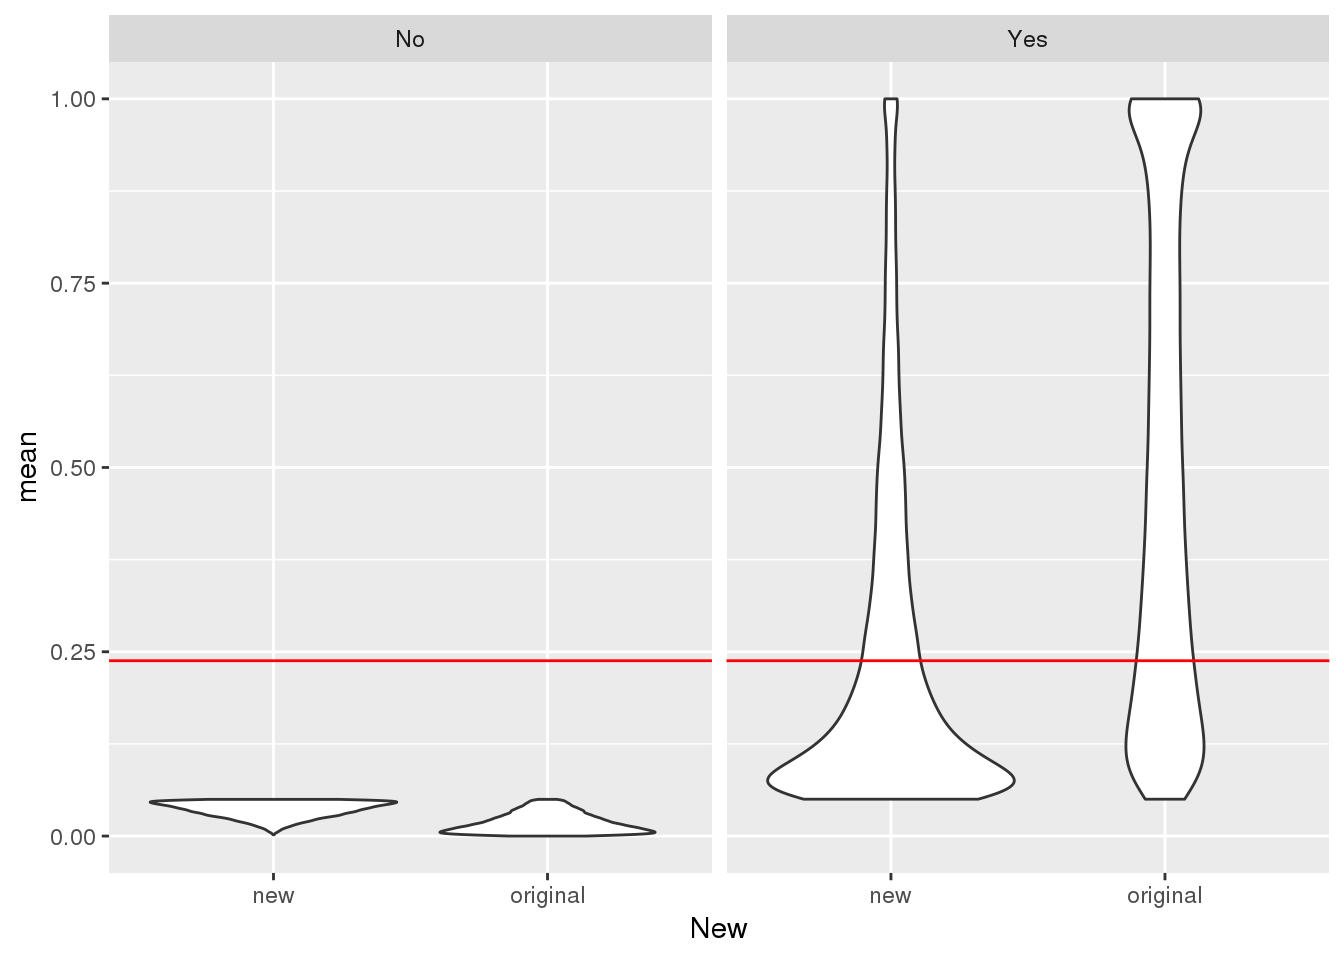
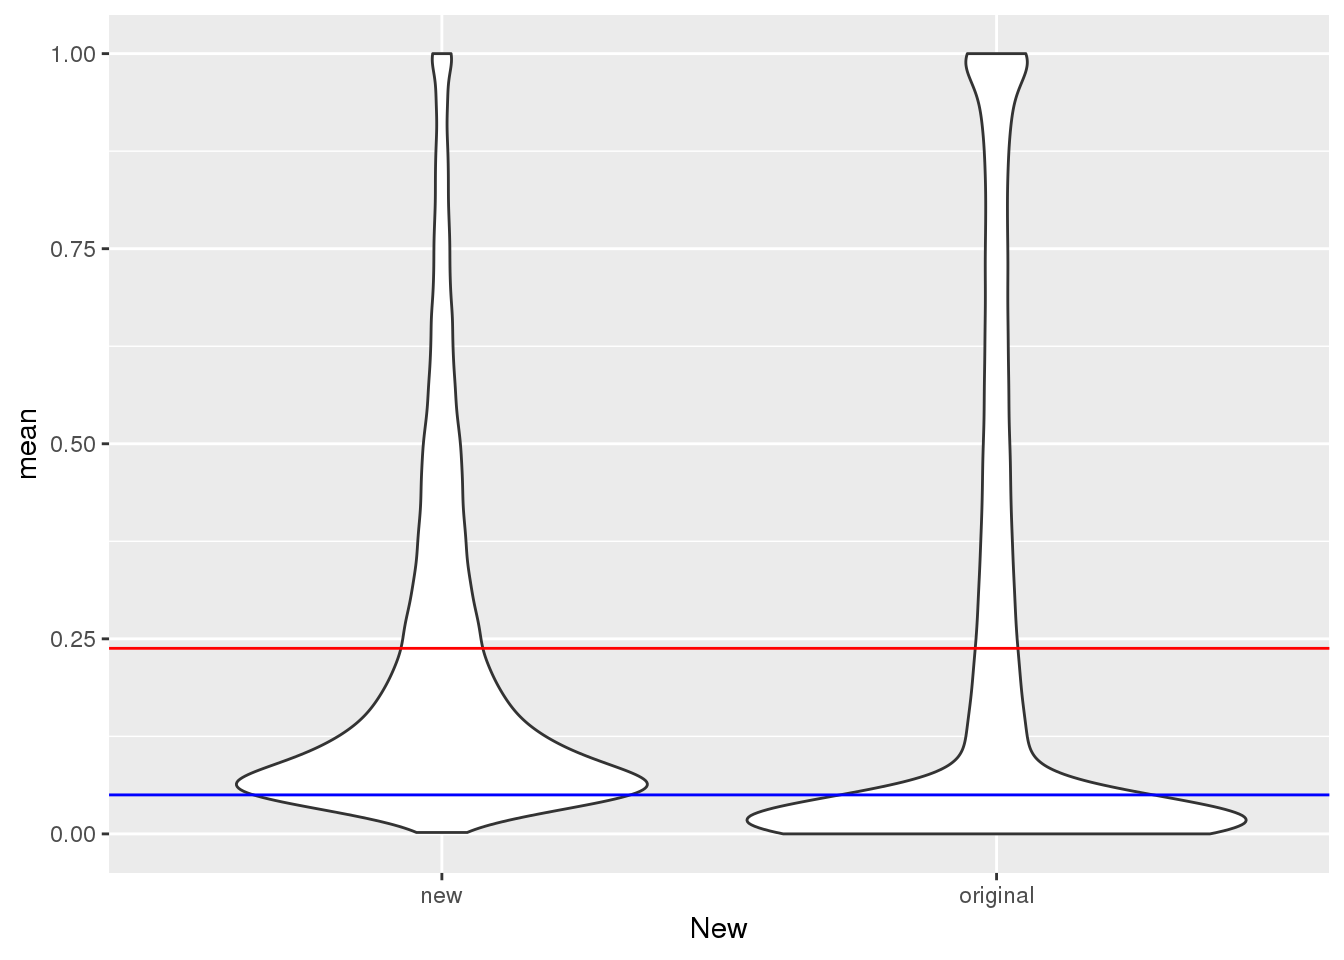
Build site.

diff --git a/docs/NewvOldPeakQC.html b/docs/NewvOldPeakQC.html
@@ -422,10 +422,10 @@ This reproducible <a href="http://rmarkdown.rstudio.com">R Markdown</a> analysis
 <div class="panel panel-default">
 <div class="panel-heading">
 <p class="panel-title">
-<a data-toggle="collapse" data-parent="#workflowr-checks" href="#strongRepositoryversionstrongahrefhttpsgithubcombrimittlemanapaQTLtreef58797082799d020c419ca0d45c1dc1f5b91d71ftargetblankf587970a"> <span class="glyphicon glyphicon-ok text-success" aria-hidden="true"></span> <strong>Repository version:</strong> <a href="https://github.com/brimittleman/apaQTL/tree/f58797082799d020c419ca0d45c1dc1f5b91d71f" target="_blank">f587970</a> </a>
+<a data-toggle="collapse" data-parent="#workflowr-checks" href="#strongRepositoryversionstrongahrefhttpsgithubcombrimittlemanapaQTLtreef4f5b21553b16c8948f83b538061dab32ad4d09etargetblankf4f5b21a"> <span class="glyphicon glyphicon-ok text-success" aria-hidden="true"></span> <strong>Repository version:</strong> <a href="https://github.com/brimittleman/apaQTL/tree/f4f5b21553b16c8948f83b538061dab32ad4d09e" target="_blank">f4f5b21</a> </a>
 </p>
 </div>
[2 lines of base64/hex data omitted]
 <div class="panel-body">
 <p>
 Great! You are using Git for version control. Tracking code development and connecting the code version to the results is critical for reproducibility. The version displayed above was the version of the Git repository at the time these results were generated. <br><br> Note that you need to be careful to ensure that all relevant files for the analysis have been committed to Git prior to generating the results (you can use <code>wflow_publish</code> or <code>wflow_git_commit</code>). workflowr only checks the R Markdown file, but you know if there are other scripts or data files that it depends on. Below is the status of the Git repository when the results were generated:
@@ -605,6 +605,40 @@ Message
 </tr>
 </thead>
 <tbody>
+<tr>
+<td>
+Rmd
+</td>
+<td>
+<a href="https://github.com/brimittleman/apaQTL/blob/f4f5b21553b16c8948f83b538061dab32ad4d09e/analysis/NewvOldPeakQC.Rmd" target="_blank">f4f5b21</a>
+</td>
+<td>
+brimittleman
+</td>
+<td>
+2019-05-01
+</td>
+<td>
+add number of peak per gene analysis
+</td>
+</tr>
+<tr>
+<td>
+html
+</td>
+<td>
+<a href="https://rawcdn.githack.com/brimittleman/apaQTL/03ea0f7f10cb119174b2b47cfbe388beb5c34178/docs/NewvOldPeakQC.html" target="_blank">03ea0f7</a>
+</td>
+<td>
+brimittleman
+</td>
+<td>
+2019-05-01
+</td>
+<td>
+Build site.
+</td>
+</tr>
 <tr>
 <td>
 Rmd
@@ -809,7 +843,7 @@ TotalPeakUSMean=as.data.frame(cbind(totalPeakUs[,1:7],mean=totalPeakUs_CountNum_
 mean(TotalPeakUSMean$mean)</code></pre>
 <pre><code>[1] 0.2378282</code></pre>
 <p>Plot:</p>
-<pre class="r"><code>ggplot(TotalPeakUSMeanClass, aes(y=mean,x=New)) + geom_violin() + geom_hline(yintercept = mean(TotalPeakUSMean$mean), col=&quot;red&quot;) + facet_grid(~Cutoff)</code></pre>
+<pre class="r"><code>ggplot(TotalPeakUSMeanClass, aes(y=mean,x=New)) + geom_violin() + geom_hline(yintercept = mean(TotalPeakUSMean$mean), col=&quot;red&quot;) +  geom_hline(yintercept = .05, col=&quot;Blue&quot;)</code></pre>
 <p><img src="figure/NewvOldPeakQC.Rmd/unnamed-chunk-6-1.png" width="672" style="display: block; margin: auto;" /></p>
 <p>
 <button type="button" class="btn btn-default btn-xs btn-workflowr btn-workflowr-fig" data-toggle="collapse" data-target="#fig-unnamed-chunk-6-1">
@@ -835,6 +869,17 @@ Date
 <tbody>
 <tr>
 <td>
+<a href="https://github.com/brimittleman/apaQTL/blob/03ea0f7f10cb119174b2b47cfbe388beb5c34178/docs/figure/NewvOldPeakQC.Rmd/unnamed-chunk-6-1.png" target="_blank">03ea0f7</a>
+</td>
+<td>
+brimittleman
+</td>
+<td>
+2019-05-01
+</td>
+</tr>
+<tr>
+<td>
 <a href="https://github.com/brimittleman/apaQTL/blob/ac656aad301db960e1e2b218a7235b295395057d/docs/figure/NewvOldPeakQC.Rmd/unnamed-chunk-6-1.png" target="_blank">ac656aa</a>
 </td>
 <td>
@@ -848,7 +893,13 @@ brimittleman
 </table>
 </div>
 </div>
-<p>This shows me the new peaks are not the peaks that barely passed the cuttoff before. These peaks cover the distribution of usage.</p>
+<pre class="r"><code>TotalPeakUSMeanClass_newonly= TotalPeakUSMeanClass %&gt;% filter(New==&quot;new&quot;)
+
+ggplot(TotalPeakUSMeanClass_newonly, aes(y=mean, x=&quot;&quot;)) + geom_violin() + geom_hline(yintercept = mean(TotalPeakUSMean$mean), col=&quot;red&quot;) +  geom_hline(yintercept = .05, col=&quot;Blue&quot;) + labs(x=&quot;&quot;, y=&quot;Mean Usage&quot;, title=&quot;Mean Usage of New PAS&quot;)</code></pre>
+<p><img src="figure/NewvOldPeakQC.Rmd/unnamed-chunk-7-1.png" width="672" style="display: block; margin: auto;" /></p>
+<pre class="r"><code>ggplot(TotalPeakUSMeanClass_newonly, aes(x=mean)) + geom_histogram(bins=50) + geom_vline(xintercept = mean(TotalPeakUSMean$mean), col=&quot;red&quot;)</code></pre>
+<p><img src="figure/NewvOldPeakQC.Rmd/unnamed-chunk-8-1.png" width="672" style="display: block; margin: auto;" /></p>
+<p>This shows me the new peaks are the peaks that barely passed the cuttoff before.</p>
 <p>write out file with information about new and old peaks</p>
 <pre class="r"><code>Peak_newOld=TotalPeakUSMeanClass %&gt;% select(-mean)
 write.table(Peak_newOld, file=&quot;../data/peaks_5perc/NewVOldPeaks.txt&quot;, col.names = T, row.names = F, quote=F)</code></pre>
@@ -960,12 +1011,72 @@ oldtotusage_anno_new=oldtotusage_anno %&gt;% semi_join(TotalPeakUSMeanClass_newo
 
 oldtotusage_anno_new_mean=rowMeans(oldtotusage_anno_new)
 
-hist(oldtotusage_anno_new_mean, main=&quot;Total Usage of new peaks in old data&quot;, xlab=&quot;old usage means&quot;)</code></pre>
-<p><img src="figure/NewvOldPeakQC.Rmd/unnamed-chunk-18-1.png" width="672" style="display: block; margin: auto;" /></p>
+plot(oldtotusage_anno_new_mean, main=&quot;Total Usage of new peaks in old data&quot;, ylab=&quot;old usage means Percent&quot;)</code></pre>
+<p><img src="figure/NewvOldPeakQC.Rmd/unnamed-chunk-20-1.png" width="672" style="display: block; margin: auto;" /></p>
 <pre class="r"><code>length(oldtotusage_anno_new_mean)</code></pre>
 <pre><code>[1] 14642</code></pre>
 <p>This shows me that we called 14 thousand of the new peaks in the old set but they were all super low coverage.</p>
 <p>Where are the new peaks, genes with a lot of peaks? or genes with less peaks</p>
+<pre class="r"><code>newPAS5perc_pergene=newPAS5perc %&gt;% separate(ID, into=c(&quot;peaknum&quot;, &quot;geneID&quot;), sep=&quot;:&quot;) %&gt;% separate(geneID, into=c(&quot;gene&quot;, &quot;loc&quot;),sep=&quot;_&quot;) %&gt;% group_by(gene) %&gt;% summarise(nPeak=n())
+
+ggplot(newPAS5perc_pergene,aes(x=nPeak)) + geom_histogram(bins=100)</code></pre>
+<p><img src="figure/NewvOldPeakQC.Rmd/unnamed-chunk-21-1.png" width="672" style="display: block; margin: auto;" /></p>
+<pre class="r"><code>nrow(newPAS5perc_pergene)</code></pre>
+<pre><code>[1] 15456</code></pre>
+<p>Look at which genes the new peaks are in.</p>
+<pre class="r"><code>uniqnew_genes=uniqnew %&gt;% separate(ID, into=c(&quot;peaknum&quot;, &quot;geneID&quot;), sep=&quot;:&quot;) %&gt;% separate(geneID, into=c(&quot;gene&quot;, &quot;loc&quot;),sep=&quot;_&quot;) %&gt;% group_by(gene) %&gt;% summarise(npeakadded=n())
+
+
+ggplot(uniqnew_genes, aes(x=npeakadded)) + geom_histogram(bins=100) + labs(title=&quot;Number of peaks added per gene\n(added peak in 10827 genes of 15456 genes)&quot;, x=&quot;Number of Peaks&quot;, y=&quot;Number of Genes&quot;)</code></pre>
+<p><img src="figure/NewvOldPeakQC.Rmd/unnamed-chunk-22-1.png" width="672" style="display: block; margin: auto;" /> Look at these genes compared to distribution for number of peaks in all peaks before filter</p>
+<pre class="r"><code>allPAS=read.table(&quot;../data/assignedPeaks/APApeaks.ALLChrom.Filtered.Named.GeneLocAnnoPARSED.SAF&quot;, header = T, stringsAsFactors = F) %&gt;% separate(GeneID, into = c(&quot;peak&quot;, &quot;Chrom&quot;, &quot;Peakstart&quot;, &quot;PeakEnd&quot;, &quot;strand&quot;, &quot;geneid&quot;),sep=&quot;:&quot;) %&gt;% separate(geneid, into=c(&quot;gene&quot;, &quot;loc&quot;), sep=&quot;_&quot;) %&gt;% group_by(gene) %&gt;% summarise(nPeakAll=n()) %&gt;% mutate(AddedPeak=ifelse(gene %in% uniqnew_genes$gene, &quot;yes&quot;, &quot;no&quot;))</code></pre>
+<pre><code>Warning: Expected 2 pieces. Additional pieces discarded in 4 rows [14735,
+14736, 14737, 14738].</code></pre>
+<pre class="r"><code>ggplot(allPAS, aes(x=nPeakAll))+ geom_histogram(bins = 100) + facet_grid(~AddedPeak)</code></pre>
+<p><img src="figure/NewvOldPeakQC.Rmd/unnamed-chunk-23-1.png" width="672" style="display: block; margin: auto;" /></p>
+<p>Mean number of peaks for genes where we added, this could help us understand the distribution shift:</p>
+<pre class="r"><code>allPAS_withnewpas=allPAS %&gt;% filter(AddedPeak==&quot;yes&quot;)
+
+summary(allPAS_withnewpas$nPeakAll)</code></pre>
+<pre><code>   Min. 1st Qu.  Median    Mean 3rd Qu.    Max. 
+  1.000   3.000   6.000   9.725  12.000 201.000 </code></pre>
+<p>Look at n peaks per gene in old data and npeaks per gene in new- join and subtract</p>
+<pre class="r"><code>#newPAS5perc_pergene
+
+oldPAS5perc_pergene= oldPAS5perc%&gt;% separate(ID, into=c(&quot;gene&quot;, &quot;peaknum&quot;), sep=&quot;:&quot;) %&gt;% group_by(gene) %&gt;% summarise(nPeakOld=n())
+
+nrow(oldPAS5perc_pergene)</code></pre>
+<pre><code>[1] 15219</code></pre>
+<p>Join:</p>
+<pre class="r"><code>npeakpergenebot=oldPAS5perc_pergene %&gt;% full_join(newPAS5perc_pergene, by=&quot;gene&quot;) %&gt;% replace_na(list(nPeakOld = 0, nPeak = 0)) %&gt;% mutate(NewMinOld=nPeak-nPeakOld)
+
+
+ggplot(npeakpergenebot, aes(x=nPeakOld, y=nPeak)) + geom_point() + geom_smooth(method=&quot;lm&quot;) + annotate(&quot;text&quot;, label=&quot;r2=0.4447&quot;, x=12, y=2) + labs(title=&quot;Number of Peaks in old vs new data&quot;,y=&quot;Number of peaks new data&quot;, x=&quot;Number of peaks old data&quot;)</code></pre>
+<p><img src="figure/NewvOldPeakQC.Rmd/unnamed-chunk-26-1.png" width="672" style="display: block; margin: auto;" /> Correlation between number of peaks before and after:</p>
+<pre class="r"><code>summary(lm(npeakpergenebot$nPeak~npeakpergenebot$nPeakOld))</code></pre>
+<pre><code>
+Call:
+lm(formula = npeakpergenebot$nPeak ~ npeakpergenebot$nPeakOld)
+
+Residuals:
+     Min       1Q   Median       3Q      Max 
+-10.1193  -1.6746  -1.3302   0.9475  17.3254 
+
+Coefficients:
+                         Estimate Std. Error t value Pr(&gt;|t|)    
+(Intercept)               0.98570    0.04322    22.8   &lt;2e-16 ***
+npeakpergenebot$nPeakOld  1.34447    0.01201   112.0   &lt;2e-16 ***
+---
+Signif. codes:  0 &#39;***&#39; 0.001 &#39;**&#39; 0.01 &#39;*&#39; 0.05 &#39;.&#39; 0.1 &#39; &#39; 1
+
+Residual standard error: 3.185 on 15650 degrees of freedom
+Multiple R-squared:  0.4448,    Adjusted R-squared:  0.4447 
+F-statistic: 1.254e+04 on 1 and 15650 DF,  p-value: &lt; 2.2e-16</code></pre>
+<pre class="r"><code>summary(npeakpergenebot$NewMinOld)</code></pre>
+<pre><code>   Min. 1st Qu.  Median    Mean 3rd Qu.    Max. 
+ -6.000   0.000   1.000   1.988   3.000  20.000 </code></pre>
+<pre class="r"><code>ggplot(npeakpergenebot, aes(x=NewMinOld)) + geom_histogram(bins=100)</code></pre>
+<p><img src="figure/NewvOldPeakQC.Rmd/unnamed-chunk-28-1.png" width="672" style="display: block; margin: auto;" /></p>
 <br>
 <p>
 <button type="button" class="btn btn-default btn-workflowr btn-workflowr-sessioninfo" data-toggle="collapse" data-target="#workflowr-sessioninfo" style="display: block;">
